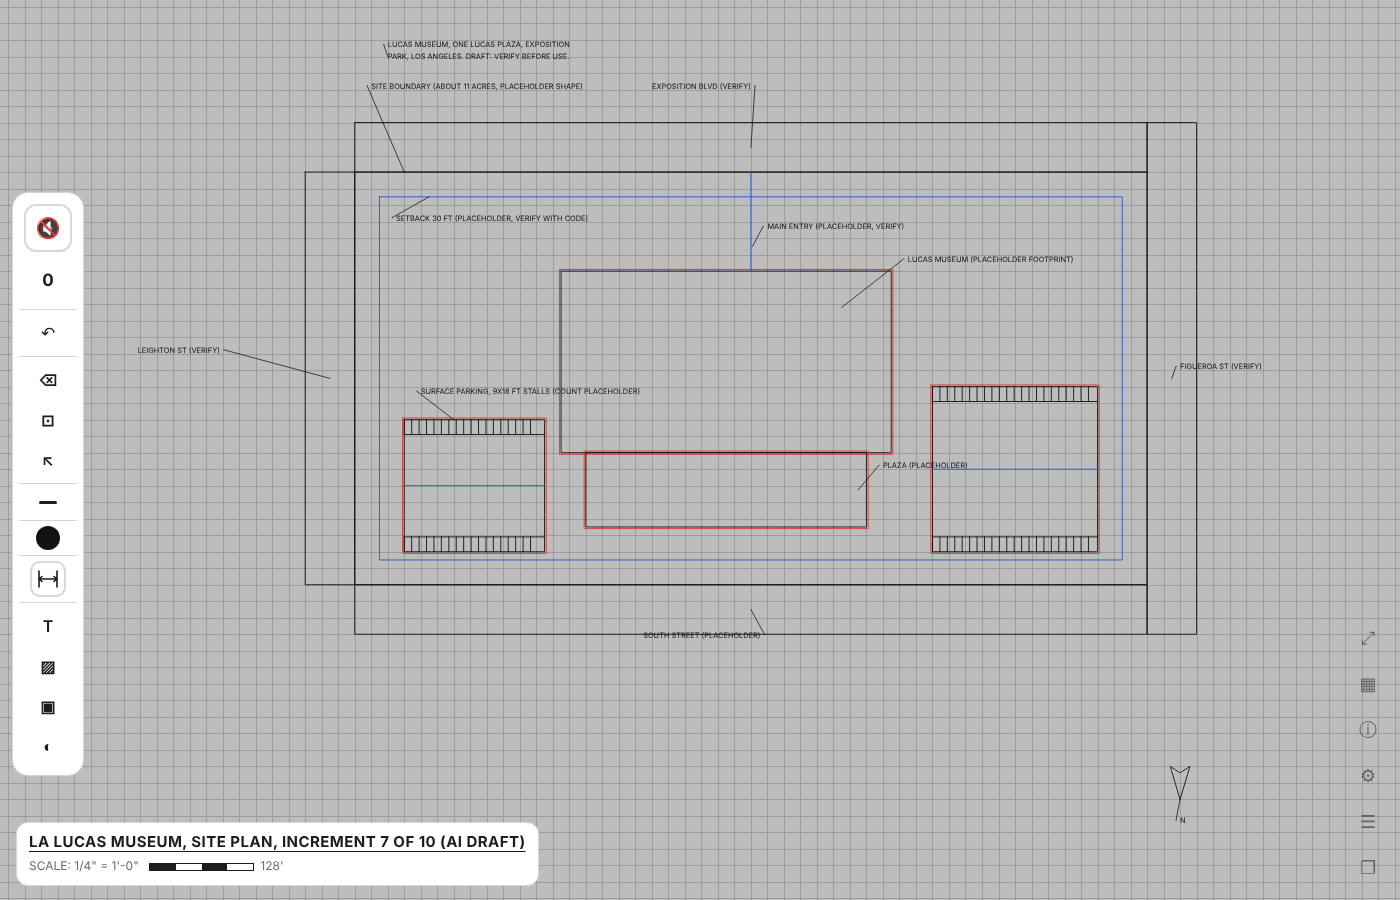
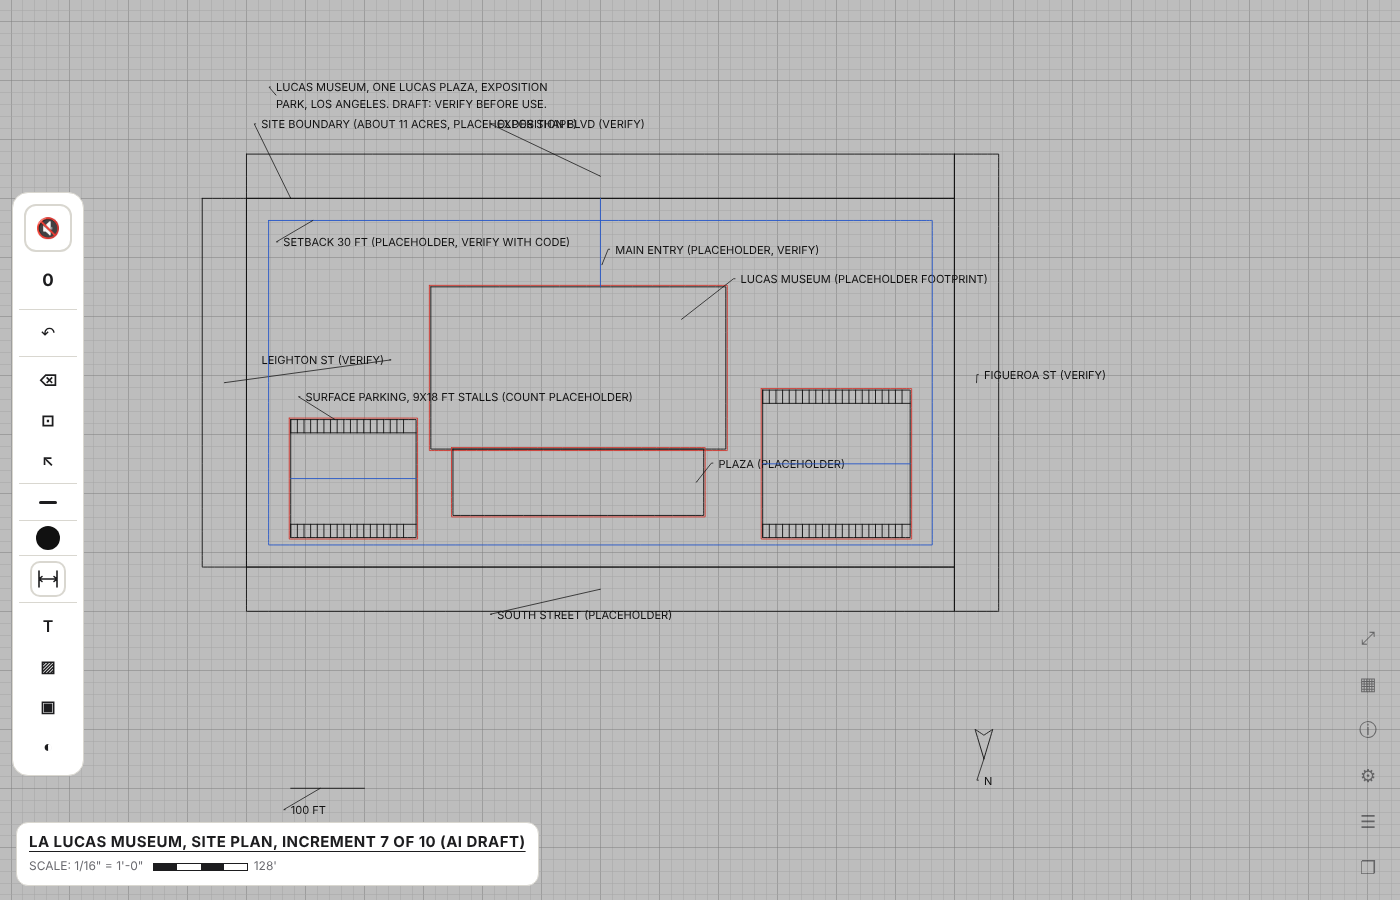
Redo LA Lucas Museum site plan at 1/16" scale
Adds 1/16"=1'-0" to SK.SCALES (factor 192). Regenerates the 10 increments at 1/16",
scales note widths to match, and reduces note text so labels fit the site.
Adds a manual DXF/DWG export to-do under Site plans.

Claude-Session: https://claude.ai/code/session_013zgJjjWjicR8sgwR5uqR23

Changed region(s): [[0.0, 0.0, 1.0, 1.0], [0.0614, 0.9333, 0.0921, 0.9644]]

diff --git a/tools/generator/siteplan-lucas.js b/tools/generator/siteplan-lucas.js
@@ -5,9 +5,9 @@
 // Increments 1-5 are tier 1 (concept), 6-8 are tier 2 (schematic), 9-10 are tier 3 (design development).
 // Writes one spec per increment, cumulative (increment 10 holds everything), to docs/examples/lucas-museum/.
 //
-// Geometry is laid out in feet (north up, y down) and written in real inches (feet x 12). Scale 1/4"=1'-0"
-// (factor 48): the app has no 1/16" scale, and this is the smallest one in SK.SCALES. Known from public sources: about 11 acres, Exposition Blvd to the north,
-// Figueroa St to the east. Everything else is a placeholder: parcel lines, street names, building footprint,
+// Geometry is laid out in feet (north up, y down) and written in real inches (feet x 12). Scale 1/16"=1'-0"
+// (factor 192, added to SK.SCALES for this site). Known from public sources: about 11 acres, Exposition Blvd
+// to the north, Figueroa St to the east. Everything else is a placeholder: parcel lines, street names, building footprint,
 // setbacks, parking counts, trees, contours and utilities. Those are marked "(verify)" or "(placeholder)".
 'use strict';
 const fs = require('fs');
@@ -54,7 +54,9 @@ const LEGEND = { x: 1080, y: 0, w: 260, h: 230 };
 // --- spec helpers, real inches ---
 const rectItem = (r, weight, pen) => ({ kind: 'rect', x: FT(r.x), y: FT(r.y), w: FT(r.w), h: FT(r.h), weight, pen });
 const lineItem = (pts, weight, pen) => ({ kind: 'line', pts: pts.map(p => [FT(p[0]), FT(p[1])]), weight, pen });
-const noteItem = (text, at, tip, wrap) => ({ kind: 'note', text, at: [FT(at[0]), FT(at[1])], width: wrap || Math.max(300, text.length * 70), tip: [FT(tip[0]), FT(tip[1])], arrow: 'filled' });
+// Note text keeps its paper size, so in real inches it grows with the scale: 1/16" is 4x the 1/4" size (192 / 48).
+const SCALE_MULT = 192 / 48;
+const noteItem = (text, at, tip, wrap) => ({ kind: 'note', text, at: [FT(at[0]), FT(at[1])], width: (wrap || Math.max(300, text.length * 70)) * SCALE_MULT, tip: [FT(tip[0]), FT(tip[1])], arrow: 'filled' });
 const circle = (cx, cy, r, n = 16) => {
   const pts = [];
   for (let i = 0; i <= n; i++) { const a = (i / n) * Math.PI * 2; pts.push([cx + r * Math.cos(a), cy + r * Math.sin(a)]); }
@@ -169,14 +171,14 @@ const inc10 = () => {
   return items;
 };
 
-const titleNote = () => noteItem('LUCAS MUSEUM, ONE LUCAS PLAZA, EXPOSITION PARK, LOS ANGELES. DRAFT: VERIFY BEFORE USE.', [40, -160], [40, -140], 2700);
+const titleNote = () => noteItem('LUCAS MUSEUM, ONE LUCAS PLAZA, EXPOSITION PARK, LOS ANGELES. DRAFT: VERIFY BEFORE USE.', [40, -160], [40, -140], 1215);
 
 const header = (n, tier, title) => ({
   name: `LA Lucas Museum, site plan, increment ${n} of 10 (AI draft)`,
-  scale: '1/4"=1\'-0"',
+  scale: '1/16"=1\'-0"',
   ai_inferred: true,
   tags: ['AI', 'draft', 'site plan', 'Lucas Museum', 'Exposition Park', `tier ${tier}`, title],
-  text_scale: { title: 24, note: 24, small: 16, dim: 16 },
+  text_scale: { title: 14, note: 10, small: 8, dim: 8 },
   draft_note: 'Draft: verify before use. Schematic, not surveyed. Parcel shape, streets, footprint, parking, trees, contours and utilities are placeholders.'
 });
 

diff --git a/sketch/units.js b/sketch/units.js
@@ -14,6 +14,7 @@
     { key: '3/4"=1\'-0"', label: '3/4" = 1\'-0"', factor: 16 },
     { key: '1/2"=1\'-0"', label: '1/2" = 1\'-0"', factor: 24 },
     { key: '1/4"=1\'-0"', label: '1/4" = 1\'-0"', factor: 48 },
+    { key: '1/16"=1\'-0"', label: '1/16" = 1\'-0"', factor: 192 },
     { key: 'Full size', label: 'Full size', factor: 1 },
     { key: 'NTS', label: 'Not to scale', factor: 4 }    // NTS keeps 3"=1' graphics
   ];

diff --git a/research/detail/siteplan/lucas-museum/qc.md b/research/detail/siteplan/lucas-museum/qc.md
@@ -1,6 +1,6 @@
 # QC: LA Lucas Museum site plan (AI draft)
 
-Checked against the public facts found in the search (One Lucas Plaza, Exposition Park; about 11 acres; Exposition Blvd to the north, Figueroa St to the east). Not checked against a survey or the assessor parcel map.
+Checked against the public facts from one web search (One Lucas Plaza, Exposition Park; about 11 acres; Exposition Blvd to the north, Figueroa St to the east). The search returned text pages only. No map imagery or existing site plan was pulled. All geometry is placeholder. Not checked against a survey or the assessor parcel map.
 
 | Check | Result |
 |---|---|
@@ -8,16 +8,21 @@ Checked against the public facts found in the search (One Lucas Plaza, Expositio
 | Streets on the right side | Partial. Exposition Blvd north, Figueroa east, Leighton west, south street placeholder. Leighton and the south street are not confirmed. |
 | Dimensions match references | Not verified. Only the area and the two street sides come from sources. Everything else is placeholder. |
 | North arrow | Pass. Points up (north), with the site drawn north-up. |
-| Scale bar matches drawing scale | Pass. Scale bar reads 100 FT; the drawing is 1/4"=1'-0". |
-| "(verify)" tags visible | Pass. Visible on the street labels and the title. Leighton St label is partly clipped by the toolbar in the increment 1 render. |
-| Notes legible at fit-to-view | Pass. `tools/note-blocks.js`: 54 notes, 0 out of range. |
+| Scale bar matches drawing scale | Pass. Scale bar reads 100 FT; the drawing is 1/16"=1'-0". |
+| "(verify)" tags visible | Pass. Visible on the street labels and the title. Leighton St label sits near the toolbar at the left edge in the increment 1 render. |
+| Notes legible at fit-to-view | Pass with minor overlap. `tools/note-blocks.js`: 54 notes, 0 out of range. In increment 10, the site boundary label overlaps the Exposition Blvd label, and the contours label overlaps the legend. Not moved. |
 | Each increment draws | Pass. 10 of 10, `tools/draw-canvas.js`, exit 0. |
+
+## Changes made for 1/16"
+
+- Added `1/16"=1'-0"` to `SK.SCALES` in `sketch/units.js`, with factor 192 (real inches per paper inch). The skill's note that 1/16" is factor 16 is wrong; factor 16 is 3/4"=1'-0".
+- Note widths scale by 192 / 48 in the generator, because the paper-size text is 4x larger in real inches.
+- Note text sizes were reduced (`title` 14, `note` 10, `small` 8, `dim` 8) so labels don't cover the site.
 
 ## Open items
 
-- Scale: the skill calls for 1/16"=1'-0", but the app has no such scale (`SK.SCALES` in `sketch/units.js`). The drawing uses 1/4"=1'-0", the smallest scale the app has, the same as the Torrance site plan.
 - Parcel shape and street names are placeholders. The assessor parcel numbers reported in a 2017 Parks document (5307-027-101 and -102) are not checked against a map.
 - Tier 3 (increments 9 and 10): contours, utilities, and survey control points are placeholders. They need a survey.
 - Parking counts, setbacks (30 ft), and tree positions are placeholders.
-- Export step (DXF or DWG, with layers) is not built. The skill lists this as an open question.
-- Version records in `viewer_sets` and `viewer_scenes` are not written. The database check was not run in this session.
+- Export is manual. DXF/DWG is tracked as a to-do in `docs/details-todo.md` under Site plans.
+- Version records in `viewer_sets` and `viewer_scenes` are not written. The database check was not run.

diff --git a/docs/details-todo.md b/docs/details-todo.md
@@ -84,3 +84,7 @@ Things to decide and review before the drafts are trusted. Nothing here is built
 - Each drawing carries a "verify before use" note. Before a detail leaves this tool, check it against the listed assembly (UL, GA or manufacturer data) and the local code.
 - Start the next round with the roofing drafts above, so we can settle the drafting standard before the rest are drawn.
 - Add items freely. Categories can be split later.
+
+## Site plans
+
+- [ ] Export site plans to DXF or DWG with layers (boundary, streets, buildings, parking, trees, labels, map underlay). Manual for now; the Lucas Museum draft is the first case.
